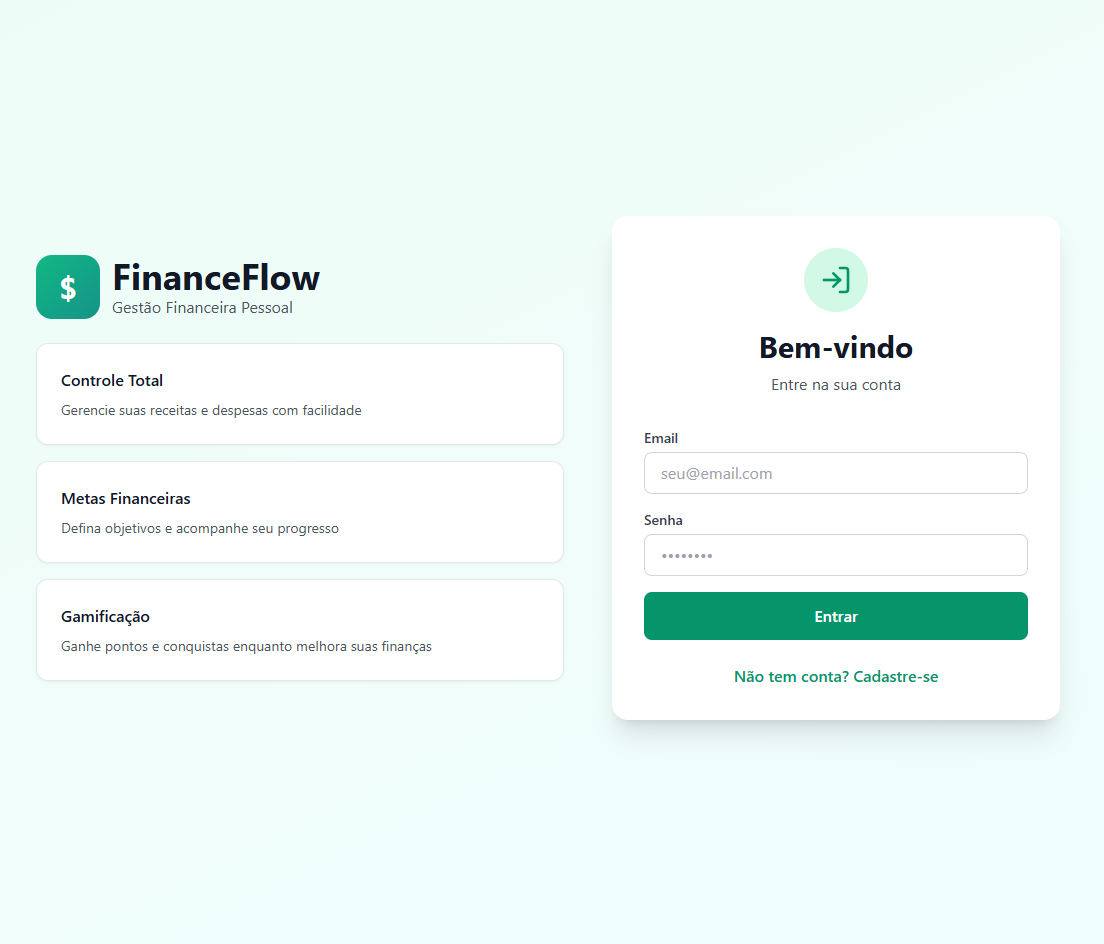
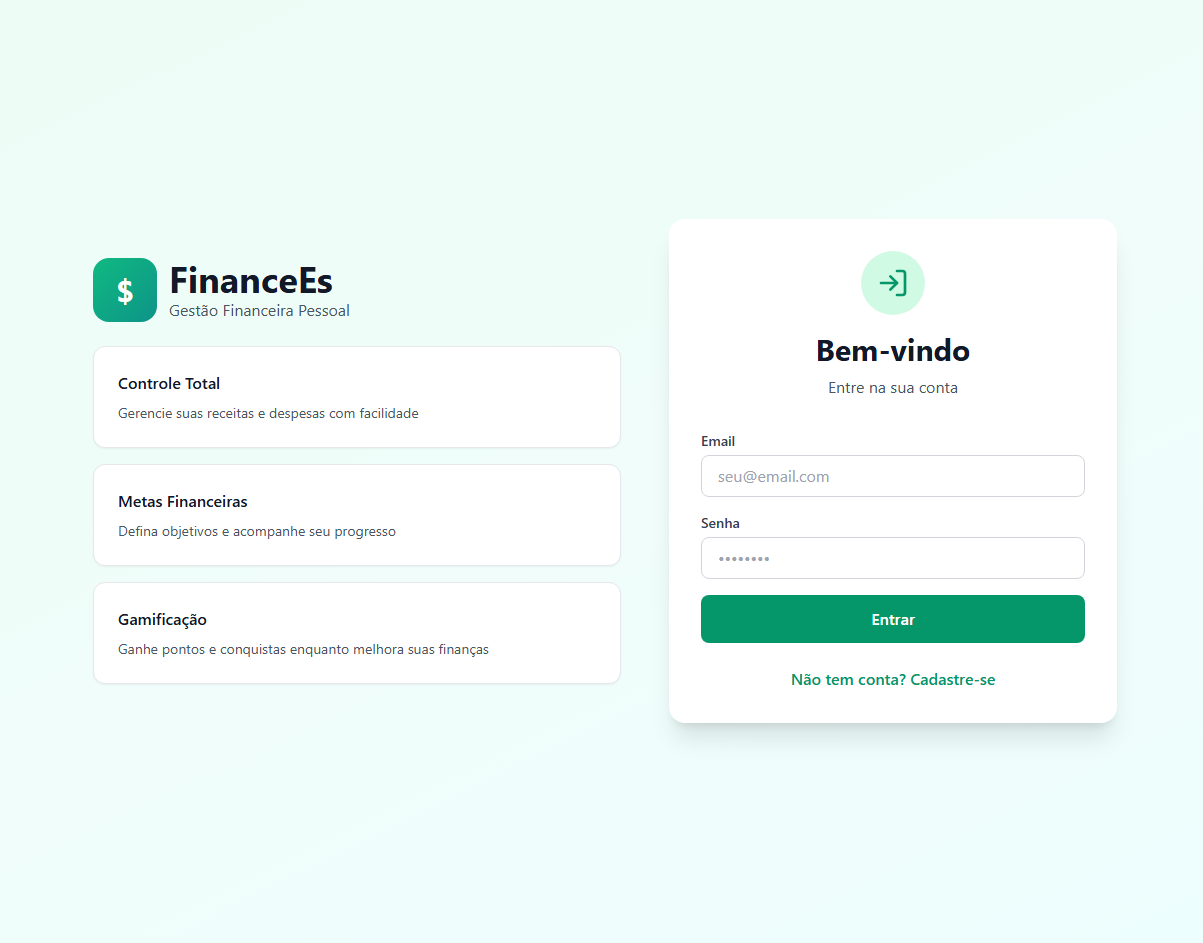
feat - Portfolio completed

diff --git a/index.html b/index.html
@@ -15,8 +15,8 @@
             <H1 class="namePage">Cassio Passos</H1>
             <div class="toolbar-main-list">
                 <section class="sub-shortcut">
-                    <li class="pattern-font" ><a href="#about-me-title">Sobre mim</a></li>
-                    <li class="pattern-font"><a href="#project-title">Projetos</a></li>
+                    <li><a href="#about-me-title">Sobre mim</a></li>
+                    <li><a href="#project-title">Projetos</a></li>
                 </section>
             </div>
             
@@ -24,11 +24,11 @@
 
         <div class="container">
             <div class="tools">
-                <H1 class="pattern-font">Seja bem vindo!</H1>
-                <p class="pattern-font">Ola me chamo <span class="namePage">Cassio Passos</span>, Desenvolvedor Full Stack em evolução.</p>
+                <H1>Seja bem vindo!</H1>
+                <p id="welcome-text">Ola me chamo <span id="namePage">Cassio Passos</span>, Desenvolvedor Full Stack em evolução.</p>
             
 
-                <h2 class="pattern-font" id="tools-title">Ferramentas que utilizo:</h2>
+                <h2 id="tools-title">Ferramentas que utilizo:</h2>
                 <div class="tools-used-div">
                     <section id="tools-icons">
                         <li class="tools-used"><img src="images/java.png"></li>
@@ -43,34 +43,47 @@
                 </div>
             </div>
 
-            <div class="author-img">
+            <div id="author-img">
                 <img src="images/euPort.png" alt="Cassio Passos">
             </div>   
 
         </div>
 
         <div>
-            <h1 class="pattern-font" id="about-me-title">Sobre mim</h1>
+            <h1 id="about-me-title">Sobre mim</h1>
             <div class="about-me">
                 <div id="line"></div>
             </div>
-            
-            <div class="card">
-                <p class="pattern-font" id="about-me-text">Eu  tenho 24 anos estudante de analise e desenvolvimento de sistemas na Universidade Unisinos bla bla bla bla</p>
-            </div>
+            <div class="about-me-container">
+                <div class="about-me-card">
+                    <p id="about-me-text">Olá! Meu nome é Cassio Passos, tenho 24 anos e sou estudante de Análise e Desenvolvimento de Sistemas na Universidade do Vale do Rio dos Sinos (Unisinos).
 
+                    Sou apaixonado por tecnologia e desenvolvimento de software, sempre buscando aprender novas linguagens, ferramentas e boas práticas de programação. Tenho interesse em desenvolvimento web, banco de dados e criação de soluções que resolvam problemas reais.
+
+                    Este portfólio reúne alguns dos projetos que desenvolvi durante minha jornada acadêmica e também projetos pessoais, demonstrando minha evolução, dedicação e vontade de crescer como desenvolvedor.
+
+                    Meu objetivo é conquistar oportunidades na área de tecnologia, contribuir com equipes inovadoras e continuar evoluindo como profissional, sempre aprendendo novas tecnologias e enfrentando novos desafios.
+                    </p>
+                </div>
+            </div>
+            
         </div>
             
         <div class="projects-list">
-            <h1 class="pattern-font" id="project-title">Projetos</h1>
-                <div class="card-project-list">
-                    <img class="card-Projects" alt="FinanceEs" src="images/financeProject.png" >
+            <h1 id="project-title">Projetos</h1>
+            <div class="projects">
+                <div class="carrossel-container">
+                    <div class="card-project-list">
+                        <div class="card-Projects"><img alt="FinanceEs" src="images/financeProject.png" ></div>
+                        <div class="card-Projects"><img alt="FinanceEs" src="images/financeProject.png" ></div>
+                        <div class="card-Projects"><img alt="FinanceEs" src="images/financeProject.png" ></div>
+                    </div>
                 </div>
-            
+            </div>
         </div>
         
         <div class="footer-toolbar">
-            <p class="pattern-font" id="text-footer">© CASSIO PASSOS 2026 Todos os Direitos Reservados</p>
+            <p id="text-footer">© CASSIO PASSOS 2026 Todos os Direitos Reservados</p>
         </div>
         
         <script src="script.js" defer></script>

diff --git a/style.css b/style.css
@@ -4,6 +4,18 @@ body {
     background-color: rgb(241, 241, 241);
 }
 
+li {
+    font-family: 'Inter', sans-serif;
+}
+
+h1 {
+    font-family: 'Inter', sans-serif;
+}
+
+h2 {
+    font-family: 'Inter', sans-serif;
+}
+
 a{
     color: inherit;           
     text-decoration: none;    
@@ -12,7 +24,10 @@ a{
 
 p{
     margin: 60px;
+    font-family: 'Inter', sans-serif;
 }
+
+/* classes */
 
 .toolbar-main-list{
     display: flex;
@@ -28,7 +43,8 @@ p{
     font-family: "Permanent Marker", cursive;
     font-weight: 400;
     font-style: normal;
-    margin: 10px;
+    margin: 15px;
+    margin-left: 30px;
     width: 15%;
 
 }
@@ -67,11 +83,29 @@ p{
 .tools-used-div {
     align-content: flex-start;
     list-style: none;
-    width: 80%;
+    display: flex;
+    width: 40%;
     height: 50%;
     margin: 5px;
     padding: 8px;
-    background-color: aqua;
+}
+
+#tools-icons {
+    display: grid;
+    grid-template-columns: repeat(4, 1fr);
+    gap: 10px;
+    align-items: center;
+    justify-items: center;
+}
+
+@media (max-width: 500px) {
+    .tools-used-div {
+        width: 40%;
+    }
+
+    #tools-icons {
+        grid-template-columns: repeat(2, 1fr);
+    }
 }
 
 .tools-used {
@@ -80,13 +114,12 @@ p{
     border-color: rgb(43, 131, 205);
     border-radius: 10px;
     padding: 10px;
-    margin: 5px;
+    margin: 0;
     width: 30px;
     display: flex;
     justify-content: center;
     align-items: center;
 }
-
 
 .tools-used img {
     padding: 0px;
@@ -96,12 +129,6 @@ p{
 .tools-itens {
     display: flex;
     flex-direction: row;
-}
-
-.author-img {
-    width: auto;
-    display: flex;
-    justify-content: flex-end;
 }
 
 .icons-tools-used {
@@ -116,6 +143,42 @@ p{
     justify-content: center;
 }
 
+.projects {
+    width: 100%;
+    display: flex;
+    align-items: center;
+    justify-content: center;
+}
+
+.carrossel-container {
+    mask-image: linear-gradient(
+    to right, 
+    transparent, 
+    black 15%, 
+    black 85%, 
+    transparent
+  );
+  
+  -webkit-mask-image: linear-gradient(
+    to right, 
+    transparent, 
+    black 15%, 
+    black 85%, 
+    transparent
+  );
+
+  height: auto;
+  width: 100%;
+  max-width: 1000px;
+  overflow-x: auto;
+  scroll-snap-type: x mandatory;
+  scrollbar-width: none; /* Oculta a barra no Firefox */
+}
+
+.carrossel-container::-webkit-scrollbar {
+  display: none; /* Oculta a barra no Chrome/Safari */
+}
+
 .projects-list {
     width: 100%;
     background-color: rgb(97, 163, 224);
@@ -128,7 +191,9 @@ p{
     width: 100%;
     display: flex;
     justify-content: center;
-    margin-bottom: 30px;
+    margin-bottom: 60px;
+    gap: 46px;
+    padding: 10px;
 }
 
 .card-Projects {
@@ -141,11 +206,30 @@ p{
     box-shadow: 0px 4px 8px rgba(0, 0, 0, 0.2);
 }
 
-.card {
+.card-Projects img {
+    height: 400px;
+    width: 500px;
+    display: flex;
+    align-items: center;
+    justify-content: center;
+    border-radius: 25px;
+    object-fit: cover;
+}
+
+.about-me-container{
+    width: 100%;
+    display: flex;
+    align-items: center;
+    justify-content: center;
+}
+
+.about-me-card {
     background-color: white;
     box-shadow: 0px 4px 8px rgba(0, 0, 0, 0.2);
+    width: 80%;
+    height: 50%;
+    height: auto;
     border-radius: 25px; 
-    height: 200px;
     margin: 50px;
     padding: 20px;
 }
@@ -158,8 +242,24 @@ p{
     justify-content: center;
 }
 
-.pattern-font{
-    font-family: 'Inter', sans-serif;
+/* id's */
+
+#namePage{
+    color: rgb(97, 163, 224);
+    width: auto;
+    font-family: "Permanent Marker", cursive;
+    font-weight: 400;
+    font-style: normal;
+}
+
+#author-img {
+    width: auto;
+    display: flex;
+    justify-content: flex-end;  
+}
+
+#welcome-text{
+    font-size: 30px;
 }
 
 #about-me-title{
@@ -174,7 +274,9 @@ p{
 }
 
 #about-me-text{
-    margin: 50px;
+    margin: 60px;
+    font-size: 20px;
+    line-height: 2.5;
 }
 
 #text-footer{
